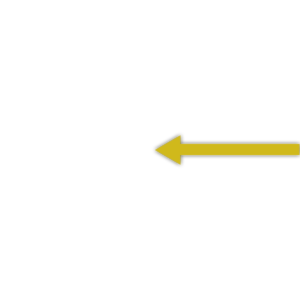
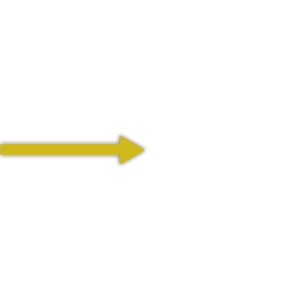
rotated arrow around 180° to better represent initial cue position

Changed region(s): [[0.51, 0.45, 1.0, 0.57], [0.0, 0.45, 0.48, 0.57]]

diff --git a/src/pool/PoolGame.java b/src/pool/PoolGame.java
@@ -22,7 +22,7 @@ public abstract class PoolGame extends GameGrid implements MouseListener {
 
         cueStick = new CueStick(cueBall);
 
-        Location initialStickPosition = new Location (cueBall.getX() + CueStick.DISTANCE_FROM_CUE_BALL, cueBall.getY());
+        Location initialStickPosition = new Location (cueBall.getX() - CueStick.DISTANCE_FROM_CUE_BALL, cueBall.getY());
 
         addActor(cueStick, initialStickPosition);
 
